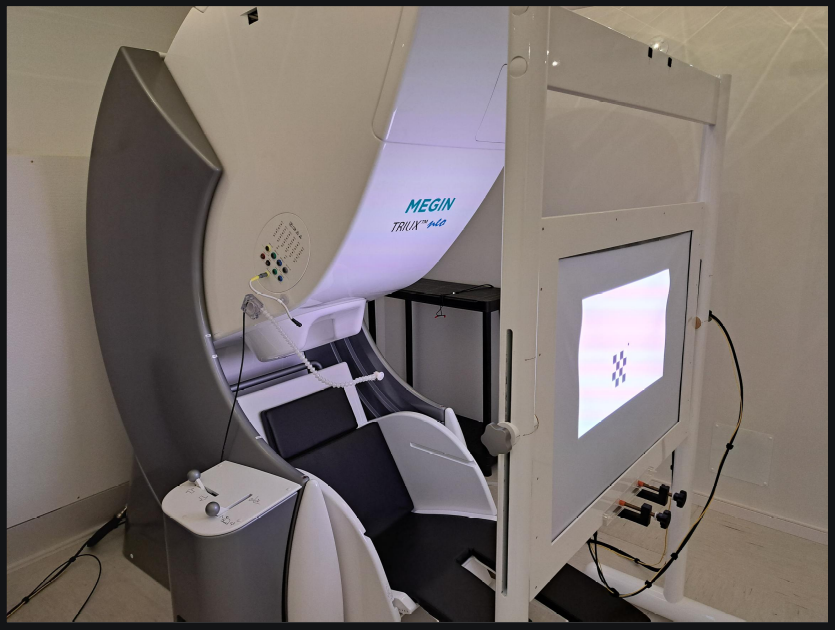
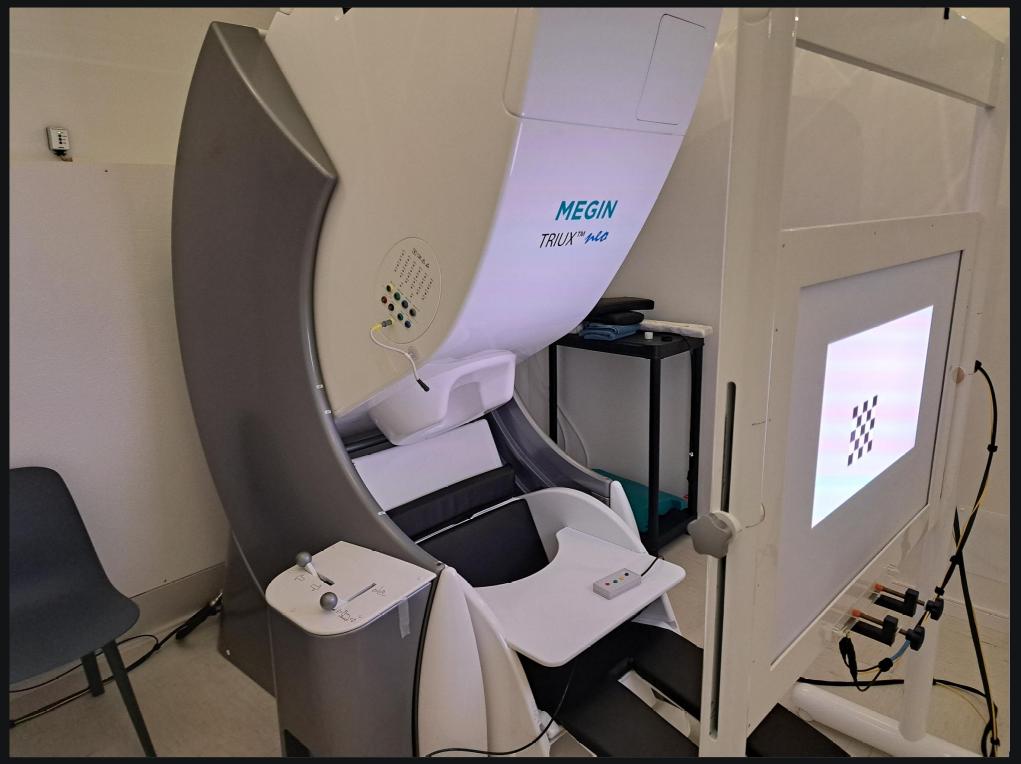
add pictures for eye-tracker

diff --git a/doc/devices/eye-tracker.rst b/doc/devices/eye-tracker.rst
@@ -14,11 +14,15 @@ Setup
 
     .. tab-item:: Upright position
 
-        TODO
+        .. image:: ../_static/eye-tracker/upright.png
+            :width: 600
+            :align: center
 
     .. tab-item:: Supine position
 
-        TODO
+        .. image:: ../_static/eye-tracker/supine.png
+            :width: 600
+            :align: center
 
 Triggers
 --------
